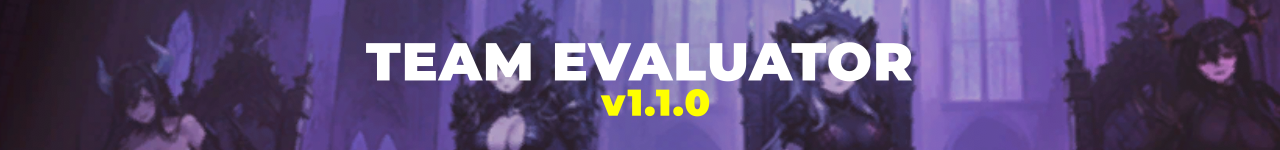
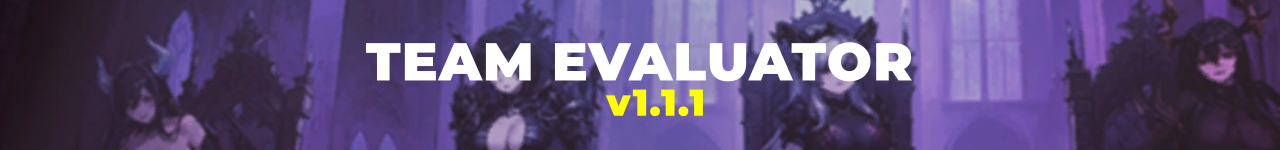
Team Evaluator v1.1.0 bugfix -> v1.1.1
[notify]

Changed region(s): [[0.4688, 0.5867, 0.5625, 0.7733]]

diff --git a/docs/misc/team-evaluator.md b/docs/misc/team-evaluator.md
@@ -37,8 +37,8 @@ To evaluate the team, pick five **Costumes** (Not Characters) and it will give y
   </div>
 </div>
 
-??? info "v1.1.0 Notes & Known Limitations"
-    Version 1.1.0 brings UI refinement, more precise dupe / SP control, potential liberation toggles and finetuned dictionary file.
+??? info "v1.1.1 Notes & Known Limitations"
+    Version 1.1.1 brings UI refinement, more precise dupe / SP control, potential liberation toggles and finetuned dictionary file.
 
     Nonetheless, advanced mechanics (such as conditional requirenments for DPS or placement validation) are still planned for future updates.
 
